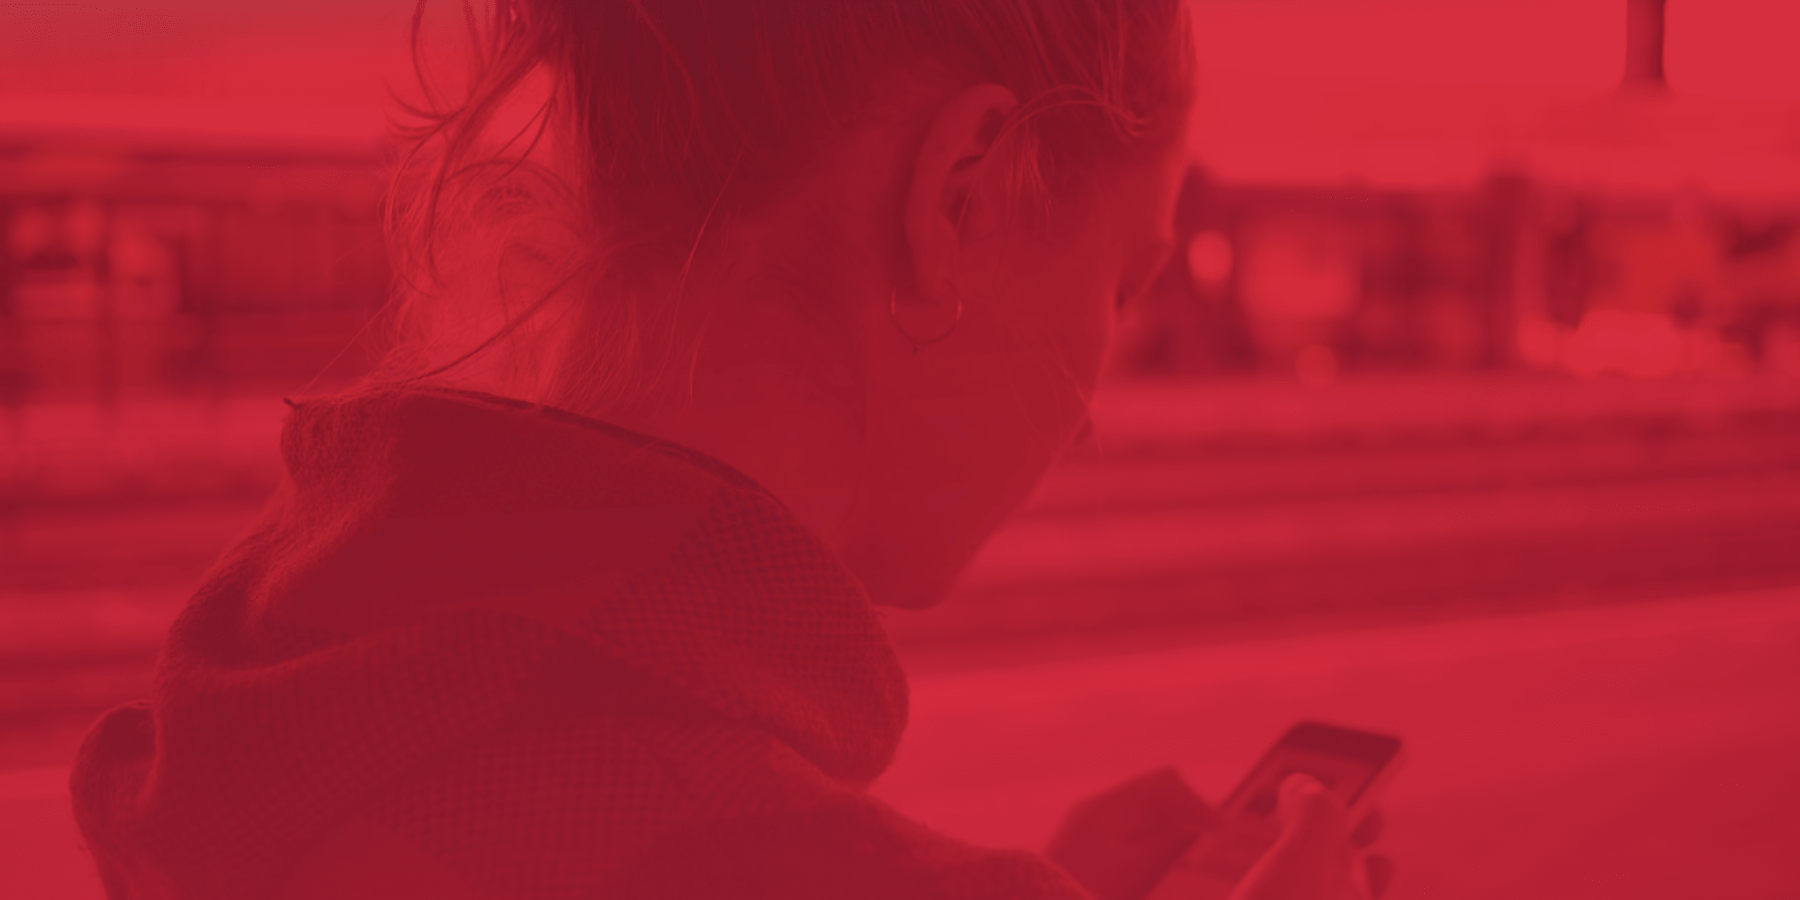
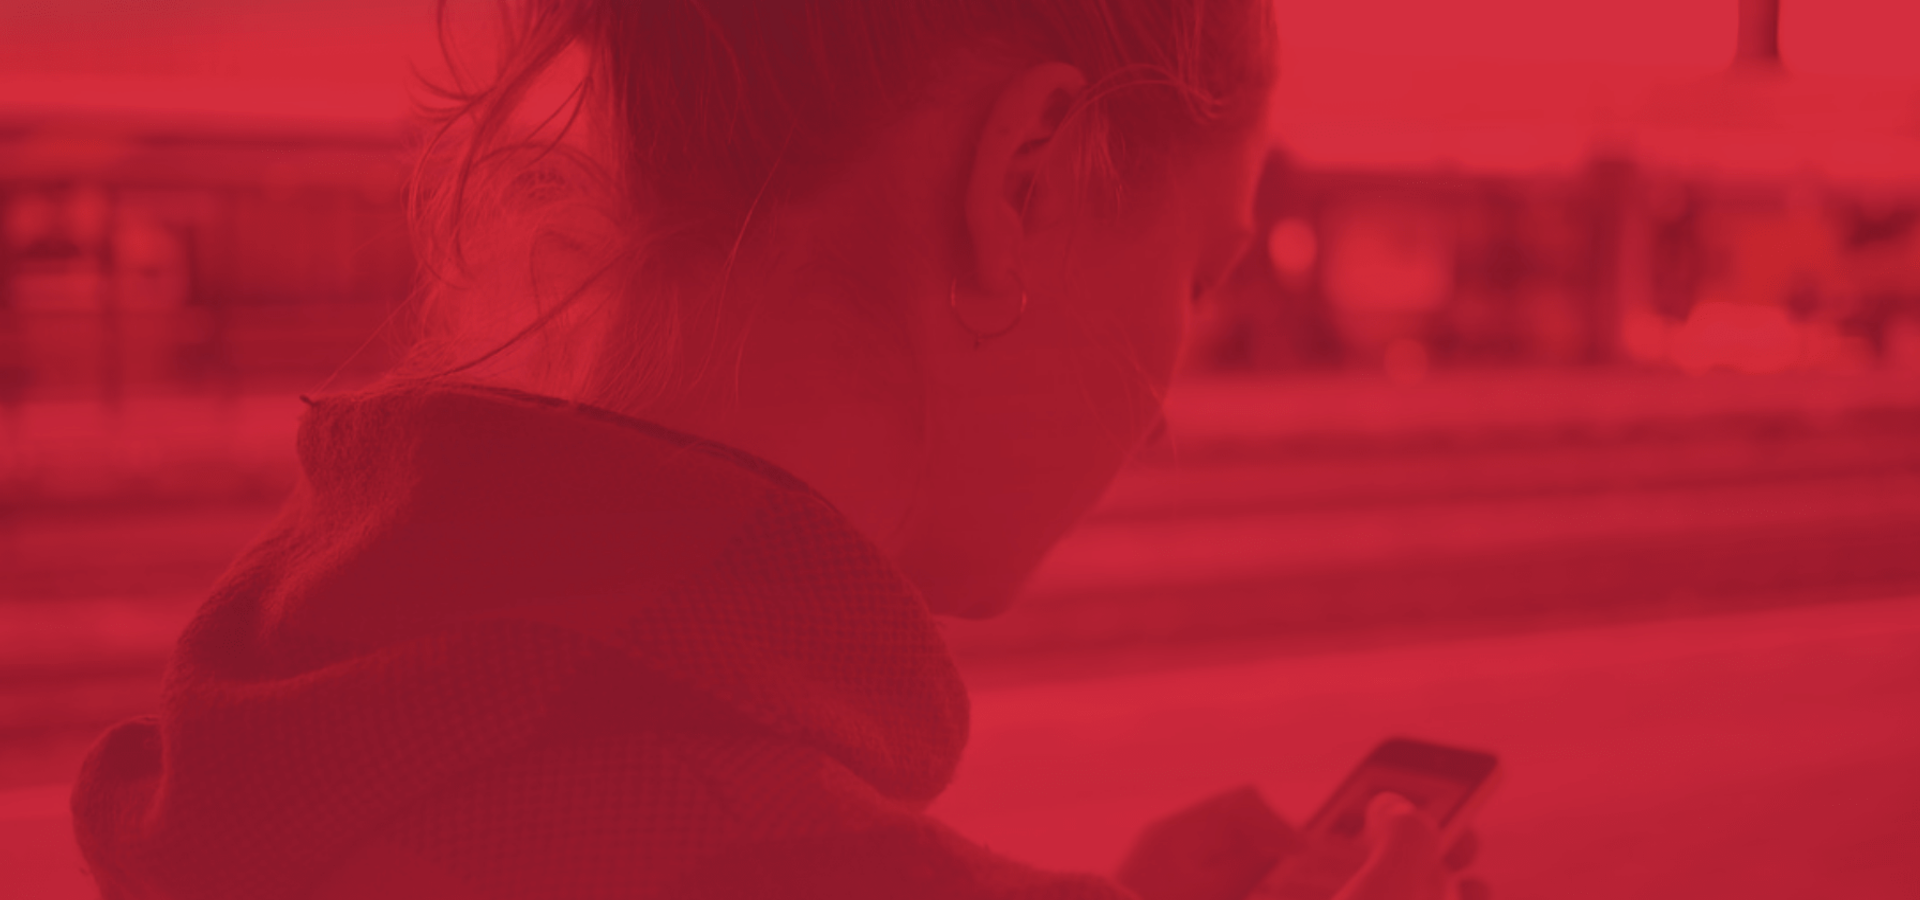
Add files via upload
full hd support

diff --git a/css/style.css b/css/style.css
@@ -138,12 +138,12 @@ body {
   font-family: 'Segoe UI';
   font-weight: 700;
   word-spacing: 10px;
-  font-size: 33px;
+  font-size: 37px;
 }
 
 .main__container p {
   word-spacing: 5px;
-  font-size: 19px;
+  font-size: 20px;
 }
 
 .main__phone {
@@ -155,7 +155,7 @@ body {
       -ms-flex-pack: end;
           justify-content: flex-end;
   margin-top: 450px;
-  margin-right: 120px;
+  margin-right: 100px;
   /* Tutaj można przesunąć "main__phone.png" bardziej do środka */
 }
 
@@ -235,9 +235,13 @@ body {
     position: relative;
     width: 100%;
   }
+  .main__container h1 {
+    font-size: 27px;
+  }
   .main__container p {
     position: relative;
     bottom: 20px;
+    font-size: 19px;
   }
   .main__phone {
     display: -webkit-box;
@@ -252,6 +256,21 @@ body {
     margin-top: 0px;
     top: 340px;
     width: 100%;
+  }
+}
+
+@media (min-width: 1400px) {
+  .main__container {
+    margin-left: 170px;
+  }
+  .main__container h1 {
+    font-size: 55px;
+  }
+  .main__container p {
+    font-size: 24px;
+  }
+  .main__phone {
+    margin-right: 380px;
   }
 }
 /*# sourceMappingURL=style.css.map */

diff --git a/sass/_media.scss b/sass/_media.scss
@@ -50,9 +50,13 @@
             margin-top:15px;
             position: relative;
             width:100%;
+            h1 {
+                font-size:27px;
+            }
             p {
               position: relative;
               bottom:20px;
+              font-size:19px;
             }
         }
         &__phone {
@@ -68,6 +72,23 @@
            margin-top:0px;
            top:340px;
            width:100%;
+        }
+    }
+}
+
+@media (min-width:1400px) {
+    .main {
+        &__container {
+            margin-left:170px;
+            h1 {
+                font-size:55px;
+            }
+            p {
+                font-size:24px;
+            }
+        }
+        &__phone {
+            margin-right:380px;
         }
     }
 }

diff --git a/sass/_main.scss b/sass/_main.scss
@@ -13,11 +13,11 @@
             font-family: 'Segoe UI';
             font-weight: 700;
             word-spacing: 10px;
-            font-size:33px;
+            font-size:37px;
         }
         p {
             word-spacing: 5px;
-            font-size:19px;
+            font-size:20px;
         }
     }
     &__phone {    
@@ -25,6 +25,6 @@
         display:flex;
         justify-content:flex-end;
         margin-top:450px;
-        margin-right: 120px; /* Tutaj można przesunąć "main__phone.png" bardziej do środka */
+        margin-right: 100px; /* Tutaj można przesunąć "main__phone.png" bardziej do środka */
     }
 }
